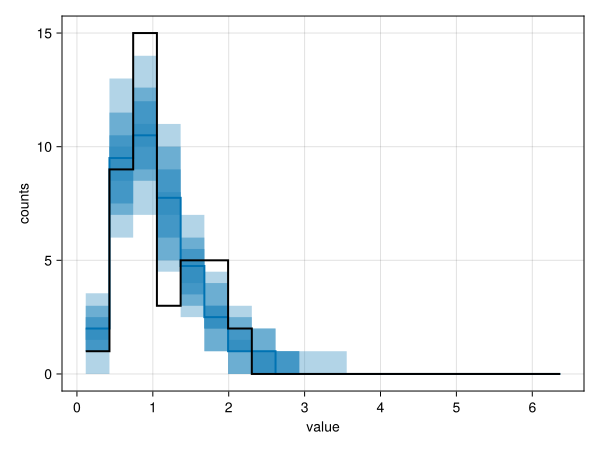
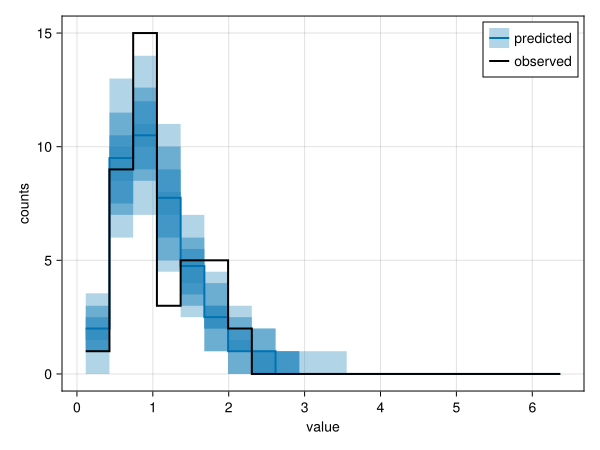
Auto legends for (some?) pushforward plots (#278)
I was working on an exercise and found myself wanting to add a
"predicted" and "observed" legend to prior and posterior predictive
checks based on `pushforward_hist`.

At least that function could come with a very basic default legend, I
think. For `pushforward_continuous` I could also see this make sense,
with the default legend using the parameter names and if fancier names
are available, it could use those as in #269.

What do you think @user? I'm happy to work on a default legend
for `pushforward_continuous` if you think this is a good idea, too.

Right now I don't think a legend is necessary for
`pushforward_discrete`... maybe I'm missing something though.

---------

Pull request: Auto legends for (some?) pushforward plots
I was working on an exercise and found myself wanting to add a "predicted" and "observed" legend to prior and posterior predictive checks based on `pushforward_hist`.

At least that function could come with a very basic default legend, I think. For `pushforward_continuous` I could also see this make sense, with the default legend using the parameter names and if fancier names are available, it could use those as in #269.

What do you think @user? I'm happy to work on a default legend for `pushforward_continuous` if you think this is a good idea, too.

Right now I don't think a legend is necessary for `pushforward_discrete`... maybe I'm missing something though.

Changed region(s): [[0.78, 0.0311, 0.99, 0.1867]]

diff --git a/HISTORY.md b/HISTORY.md
@@ -1,3 +1,9 @@
+# 0.6.30
+
+A legend is now automatically added to the axis when using `pushforward_hist`.
+
+We expect that the legend is an improvement to almost all use cases, but in case it is not desired, it is possible (but not elegant) to [modify](https://github.com/penelopeysm/FlexiChains.jl/pull/278#issuecomment-4948379988) or [delete](https://discourse.julialang.org/t/makie-how-to-remove-a-legend-from-an-axis/65876/8) the legend after having created the figure.
+
 # 0.6.29
 
 Fixed a bug where `FlexiChains.from_mcmcchains` would error if given Parameters with different `VarName`s (which made it very hard to convert an `MCMCChains.Chains` object to a `VNChain`, instead of the standard `SymChain`).